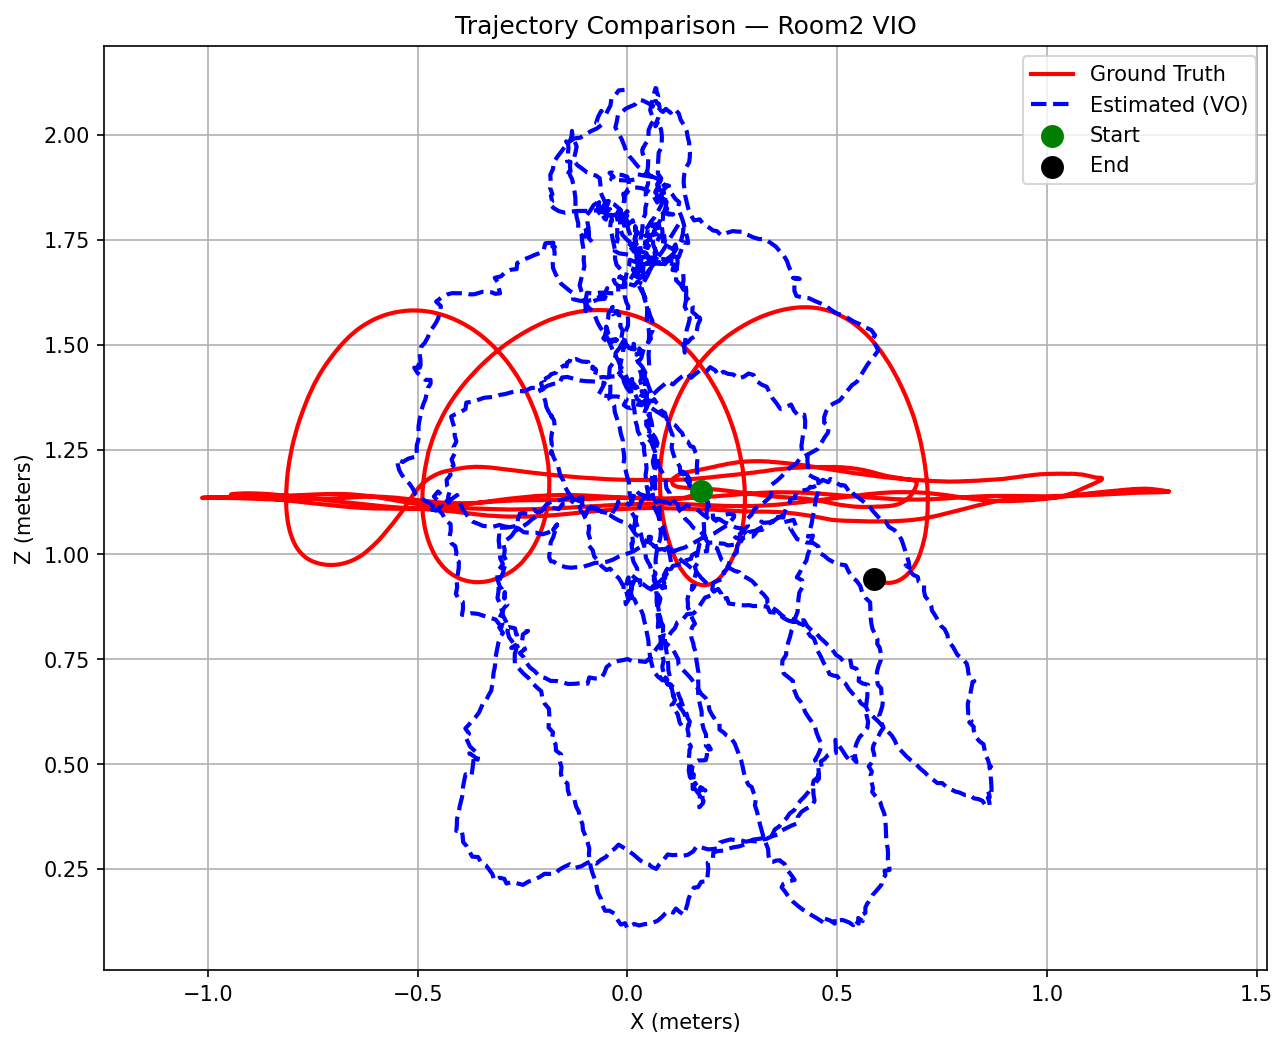
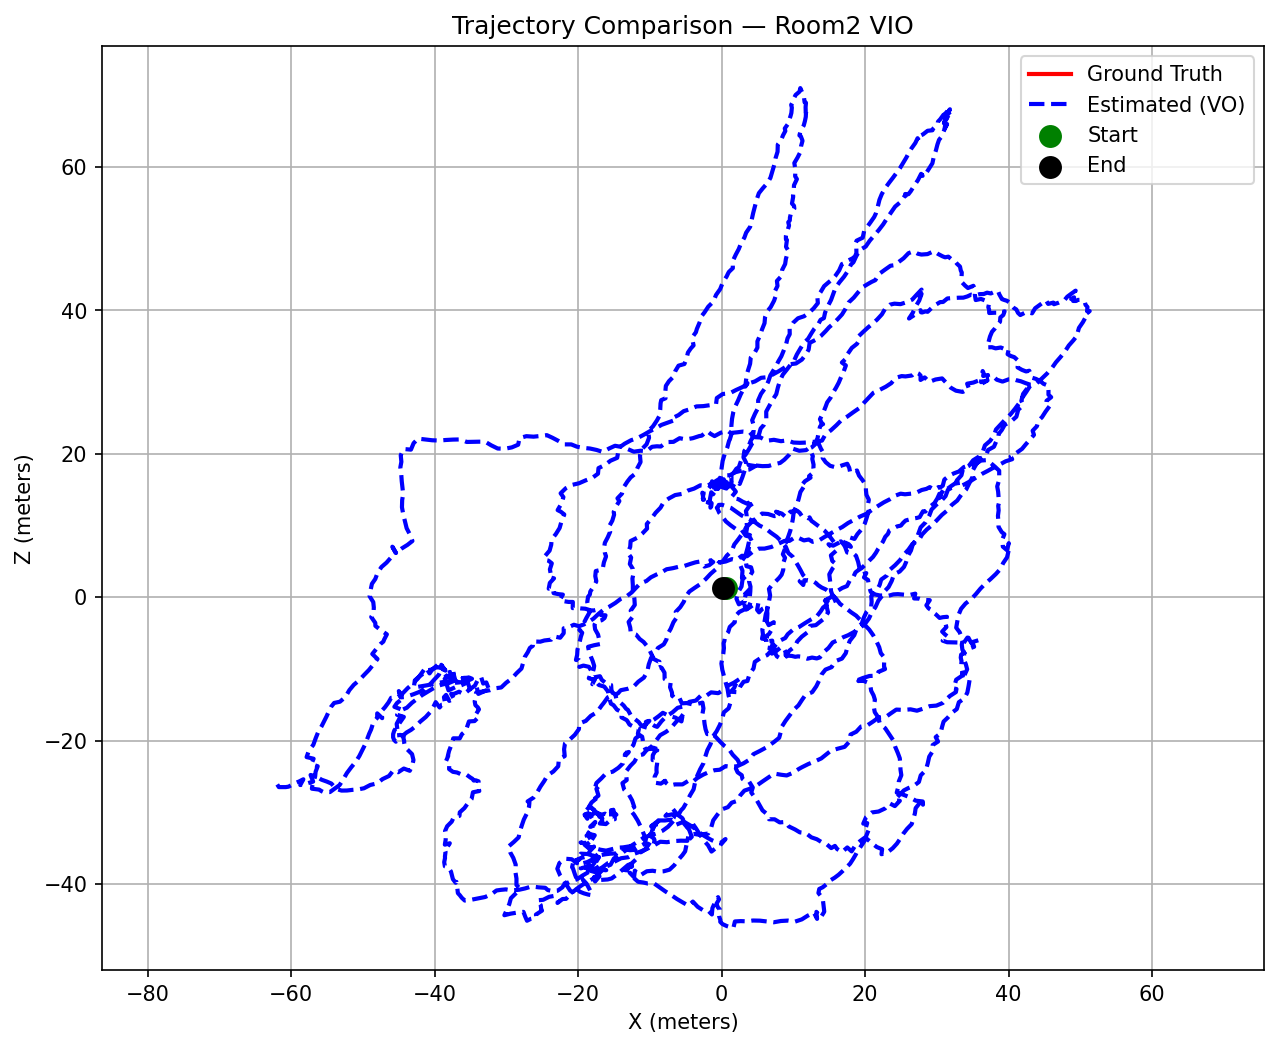
Added VIO results for all three sequences

diff --git a/evaluate.py b/evaluate.py
@@ -2,22 +2,30 @@ import numpy as np
 import sys
 sys.path.append('.')
 from src.utils.visualization import plot_trajectory_2d
-from src.evaluation.ate import load_trajectory, compute_ate, align_trajectories
 from src.evaluation.rpe import compute_rpe, print_results
+from src.evaluation.ate import load_trajectory, compute_ate, align_trajectories, align_se3
 
 # Load estimated trajectory
 #traj_est = load_trajectory('results/trajectories/room2_vo.txt')
 #traj_est = load_trajectory('results/trajectories/corridor3_vo.txt')
-traj_est = load_trajectory('results/trajectories/outdoors5_vo.txt')
+#traj_est = load_trajectory('results/trajectories/outdoors5_vo.txt')
 #traj_est = load_trajectory('results/trajectories/room2_vio.txt')
+traj_est = load_trajectory('results/trajectories/corridor3_vio.txt')
 
 # Load ground truth
 #gt_data = np.loadtxt('data/dataset-room2_512_16/dso/gt_imu.csv',
 #                      delimiter=',', skiprows=1)
 #gt_data = np.loadtxt('data/dataset-corridor3_512_16/dso/gt_imu.csv',
 #                      delimiter=',', skiprows=1)
+#gt_data = np.loadtxt('data/dataset-outdoors5_512_16/dso/gt_imu.csv',
+#                      delimiter=',', skiprows=1)
+#gt_data = np.loadtxt('data/dataset-room2_512_16/dso/gt_imu.csv',
+#                      delimiter=',', skiprows=1)
+#gt_data = np.loadtxt('data/dataset-corridor3_512_16/dso/gt_imu.csv',
+#                      delimiter=',', skiprows=1)
 gt_data = np.loadtxt('data/dataset-outdoors5_512_16/dso/gt_imu.csv',
                       delimiter=',', skiprows=1)
+
 
 traj_gt = gt_data[:, 1:4]
 
@@ -28,7 +36,14 @@ traj_est = traj_est[:min_len]
 traj_gt = traj_gt[:min_len]
 
 # Align trajectory properly using Umeyama
-traj_est_aligned = align_trajectories(traj_est, traj_gt)
+# For VO use Sim(3):
+# traj_est_aligned = align_trajectories(traj_est, traj_gt)
+
+# For VIO use SE(3):
+traj_est_aligned = align_se3(traj_est, traj_gt)
+
+# Sim(3) alignment for visual comparison only
+traj_est_sim3 = align_trajectories(traj_est, traj_gt)
 
 # Compute ATE (after alignment)
 ate = compute_ate(traj_est, traj_gt)
@@ -41,8 +56,11 @@ print(f'RPE: {rpe:.4f} meters/100m')
 # Print clean results table
 #print_results('Room2', ate, rpe)
 #print_results('Corridor3', ate, rpe)
-print_results('Outdoors5', ate, rpe)
+#print_results('Outdoors5', ate, rpe)
 #print_results('Room2 VIO', ate, rpe)
+#print_results('Corridor3 VIO', ate, rpe)
+print_results('Outdoors5 VIO', ate, rpe)
+
 
 # Plot aligned trajectory
 #plot_trajectory_2d(
@@ -55,9 +73,32 @@ print_results('Outdoors5', ate, rpe)
 #    'Corridor3', 'results/plots/corridor3_vo.png'
 #)
 
-plot_trajectory_2d(
-    traj_est_aligned, traj_gt,
-    'Outdoors5', 'results/plots/outdoors5_vo.png'
-)
+#plot_trajectory_2d(
+#    traj_est_aligned, traj_gt,
+#    'Outdoors5', 'results/plots/outdoors5_vo.png'
+#)
+
+
+# Plot 1: SE(3) — honest evaluation
 #plot_trajectory_2d(traj_est_aligned, traj_gt,
-#    'Room2 VIO', 'results/plots/room2_vio.png')
+#    'Room2 VIO SE3', 'results/plots/room2_vio_se3.png')
+
+# Plot 2: Sim(3) — visual comparison
+#plot_trajectory_2d(traj_est_sim3, traj_gt,
+#    'Room2 VIO (Sim3 visual)', 'results/plots/room2_vio_sim3.png')
+
+# SE(3) plot
+#plot_trajectory_2d(traj_est_aligned, traj_gt,
+#    'Corridor3 VIO SE3', 'results/plots/corridor3_vio_se3.png')
+
+# Sim(3) plot
+#plot_trajectory_2d(traj_est_sim3, traj_gt,
+#    'Corridor3 VIO Sim3', 'results/plots/corridor3_vio_sim3.png')
+
+# SE(3) plot
+plot_trajectory_2d(traj_est_aligned, traj_gt,
+    'Outdoors5 VIO SE3', 'results/plots/outdoors5_vio_se3.png')
+
+# Sim(3) plot
+plot_trajectory_2d(traj_est_sim3, traj_gt,
+    'Outdoors5 VIO Sim3', 'results/plots/outdoors5_vio_sim3.png')

diff --git a/src/vio/pipeline.py b/src/vio/pipeline.py
@@ -128,8 +128,9 @@ def run_vio_pipeline(sequence_path, config_path, output_path):
         optimized_poses = optimizer.optimize()
 
         # Step 7: Update trajectory
-        position = optimized_poses[-1][:3, 3]
-        trajectory.append(position.copy())
+        # Store full optimized pose matrix
+        optimized_pose = optimized_poses[-1].copy()
+        trajectory.append(optimized_pose)
         poses.append(new_pose)
 
         if i % 50 == 0:
@@ -139,12 +140,12 @@ def run_vio_pipeline(sequence_path, config_path, output_path):
         prev_kp, prev_des = curr_kp, curr_des
         prev_timestamp = curr_timestamp
 
-    # ── 4. Save trajectory ───────────────────────────────
+# 4. Save trajectory 
     save_trajectory(
-    trajectory,
-    output_path,
-    timestamps=loader.timestamps[:len(trajectory)]
-)
+        trajectory,
+        output_path,
+        timestamps=loader.timestamps[:len(trajectory)]
+    )
     print(f"VIO Trajectory saved to {output_path}")
 
     return trajectory
@@ -155,8 +156,20 @@ if __name__ == "__main__":
     os.makedirs("results/plots", exist_ok=True)
     os.makedirs("results/tables", exist_ok=True)
 
+    #run_vio_pipeline(
+    #    sequence_path="data/dataset-room2_512_16",
+    #    config_path="configs/tum_vi.yaml",
+    #    output_path="results/trajectories/room2_vio.txt"
+    #)
+
+    #run_vio_pipeline(
+    #    sequence_path="data/dataset-corridor3_512_16",
+    #    config_path="configs/tum_vi.yaml",
+    #    output_path="results/trajectories/corridor3_vio.txt"
+    #)
+
     run_vio_pipeline(
-        sequence_path="data/dataset-room2_512_16",
+        sequence_path="data/dataset-outdoors5_512_16",
         config_path="configs/tum_vi.yaml",
-        output_path="results/trajectories/room2_vio.txt"
+        output_path="results/trajectories/outdoors5_vio.txt"
     )

diff --git a/src/evaluation/ate.py b/src/evaluation/ate.py
@@ -41,6 +41,41 @@ def align_trajectories(traj_est, traj_gt):
     
     return traj_est_aligned
 
+def align_se3(traj_est, traj_gt):
+    """
+    SE(3) alignment for VIO evaluation.
+    Aligns rotation and translation ONLY.
+    Does NOT correct scale (IMU provides metric scale).
+    
+    Args:
+        traj_est: Nx3 estimated positions
+        traj_gt:  Nx3 ground truth positions
+    
+    Returns:
+        traj_est_aligned: SE(3) aligned trajectory
+    """
+    # Center both trajectories
+    mu_est = traj_est.mean(axis=0)
+    mu_gt  = traj_gt.mean(axis=0)
+    
+    est_centered = traj_est - mu_est
+    gt_centered  = traj_gt  - mu_gt
+
+    # Compute rotation using SVD (no scale!)
+    W = gt_centered.T @ est_centered
+    U, _, Vt = np.linalg.svd(W)
+    R = U @ Vt
+
+    # Handle reflection
+    if np.linalg.det(R) < 0:
+        Vt[-1, :] *= -1
+        R = U @ Vt
+
+    # Apply alignment WITHOUT scale correction
+    traj_est_aligned = (est_centered @ R.T) + mu_gt
+
+    return traj_est_aligned
+
 def compute_ate(traj_est, traj_gt):
     """
     Compute Absolute Trajectory Error (ATE).

diff --git a/src/utils/visualization.py b/src/utils/visualization.py
@@ -36,7 +36,7 @@ def plot_trajectory_2d(traj_est, traj_gt,
         color='blue',
         linewidth=2,
         linestyle='--',
-        label='Estimated (VO)'
+        label='Estimated (VO/VIO)'
     )
     
     # Mark start and end points
